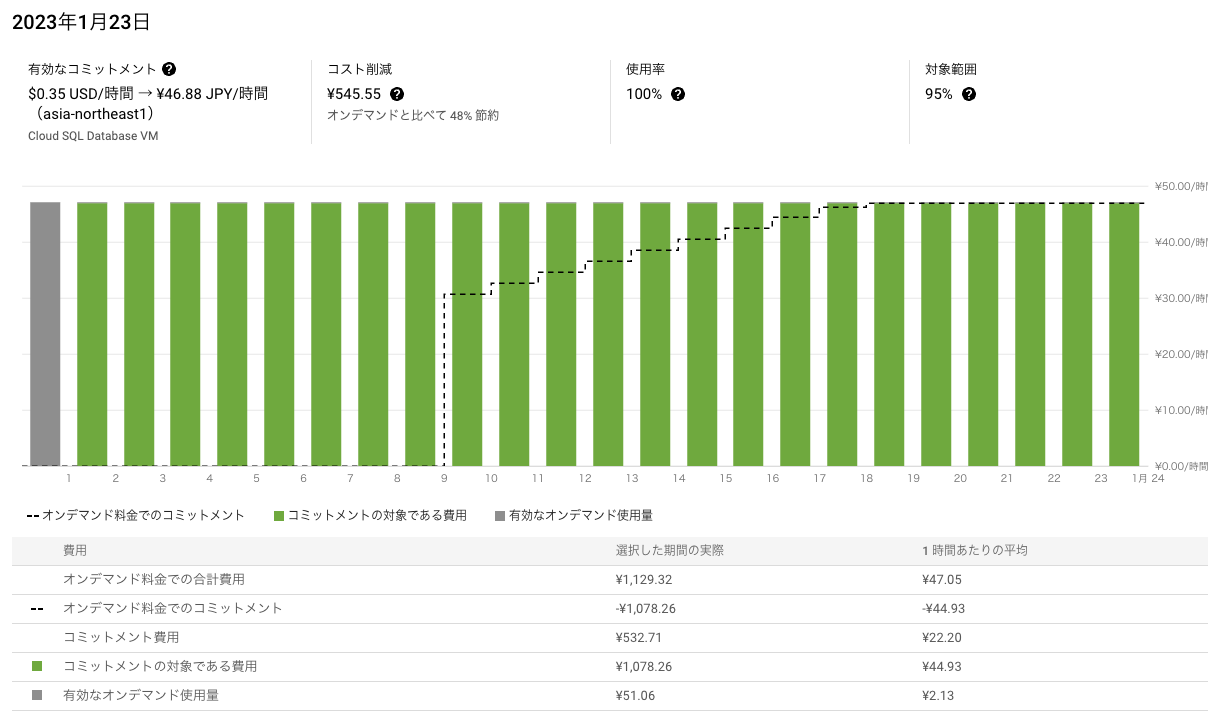
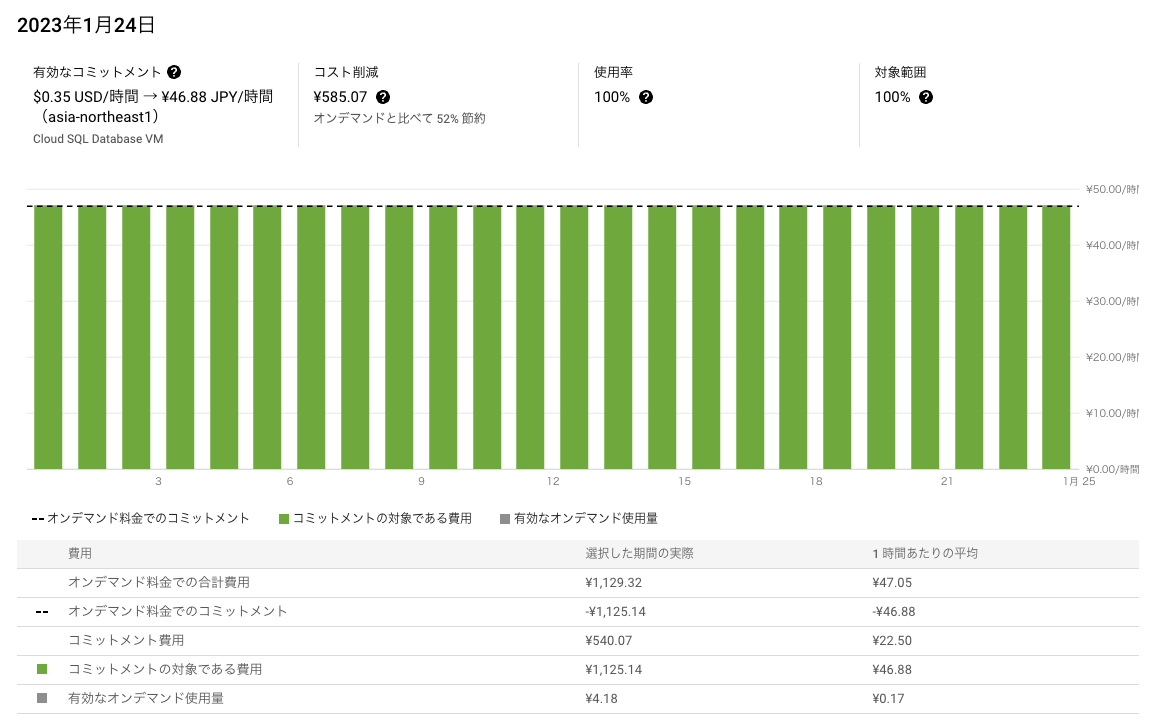
fix

diff --git a/articles/zenn-used-cud.md b/articles/zenn-used-cud.md
@@ -64,6 +64,8 @@ Zennの本番環境のCloud SQLは、HA構成で2 vCPU、7.5G メモリで稼働
 
 ぴったりとコミットメントでカバーされていますね🤗
 
+これまでの費用 `$252/mo` に対して52%の割引が適用され、`$132/mo` の節約になりました🎉
+
 ### Cloud Run
 
 以下はZennの本番環境の、Cloud Runのとある1日の費用グラフです。Cloud SQLとは対象的に料金の変動があることが分かります。この日は最大で2倍くらいの変動がありますね。
@@ -71,7 +73,7 @@ Zennの本番環境のCloud SQLは、HA構成で2 vCPU、7.5G メモリで稼働
 ![](/images/articles/zenn-used-cud/5.png)
 *確約利用割引適用前のある1日のCloud Runの費用*
 
-ちなみにグラフのタイムゾーンはUTC-8なので、グラフの0時が前日の7時です。Cloud Runは一瞬のバーストで大きくスケールしたりするので、費用も単純にリクエスト数とは比例していないようです。
+ちなみにグラフのタイムゾーンはUTC-8なので、グラフの0時が前日の17時です。Cloud Runは一瞬のバーストで大きくスケールしたりするので、費用も単純にリクエスト数とは比例していないようです。
 
 コミットメントを決めるにあたっては、もう少し長期的な視点で見る必要があると考え、Zennでは **過去3ヶ月のうち最も費用が低かった月の、1時間の平均費用の80%** をコミットメントとして設定しました。
 
@@ -91,6 +93,8 @@ Zennの本番環境のCloud SQLは、HA構成で2 vCPU、7.5G メモリで稼働
 
 ざっくりと計算式を決めた割には、いい感じでした🤗
 
+これまでの費用（計算式のベースにした金額）は `$470/mo`、対象範囲が80%、わずかに使いきれなかった分は無視するとして、単純計算で `$470 * 0.80 * 0.17 = $63.92` となり、およそ `$64` の節約になります🎉
+
 ## 感想
 
 最後に、確約利用割引を使ってみて良かったところと注意点を書いて終わろうと思います。
@@ -106,9 +110,9 @@ Zennの本番環境のCloud SQLは、HA構成で2 vCPU、7.5G メモリで稼働
 - 当然のことながら**購入の取り消しはできません**。長期的に利用する見込みがある場合に購入しましょう。
 - 1時間単位の費用の契約になります。本記事にも書きましたが、Cloud Runなどは1時間あたりの費用の変動が大きいので、**変動を加味してコミットメントを決める**必要があります。
 
-## おまけ
+## 余談
 
-確約利用割引を購入した翌日に費用のレポートを確認したら、Cloud SQLの方だけ使用率が0%だったので、設定をミスって会社のお金を溶かしたかと思ってまじで焦りました。Cloud SQLのレポートの更新頻度は1日単位でした。
+確約利用割引を購入した翌日に費用のレポートを確認したら、Cloud SQLの方だけ対象範囲が0%だったので、設定をミスって会社のお金を溶かしたかと思って焦りました。Cloud SQLの方が、レポートの更新間隔が長いみたいですね。
 
 ![](/images/articles/zenn-used-cud/9.png)
 *購入翌日のCloud Runのレポート*
